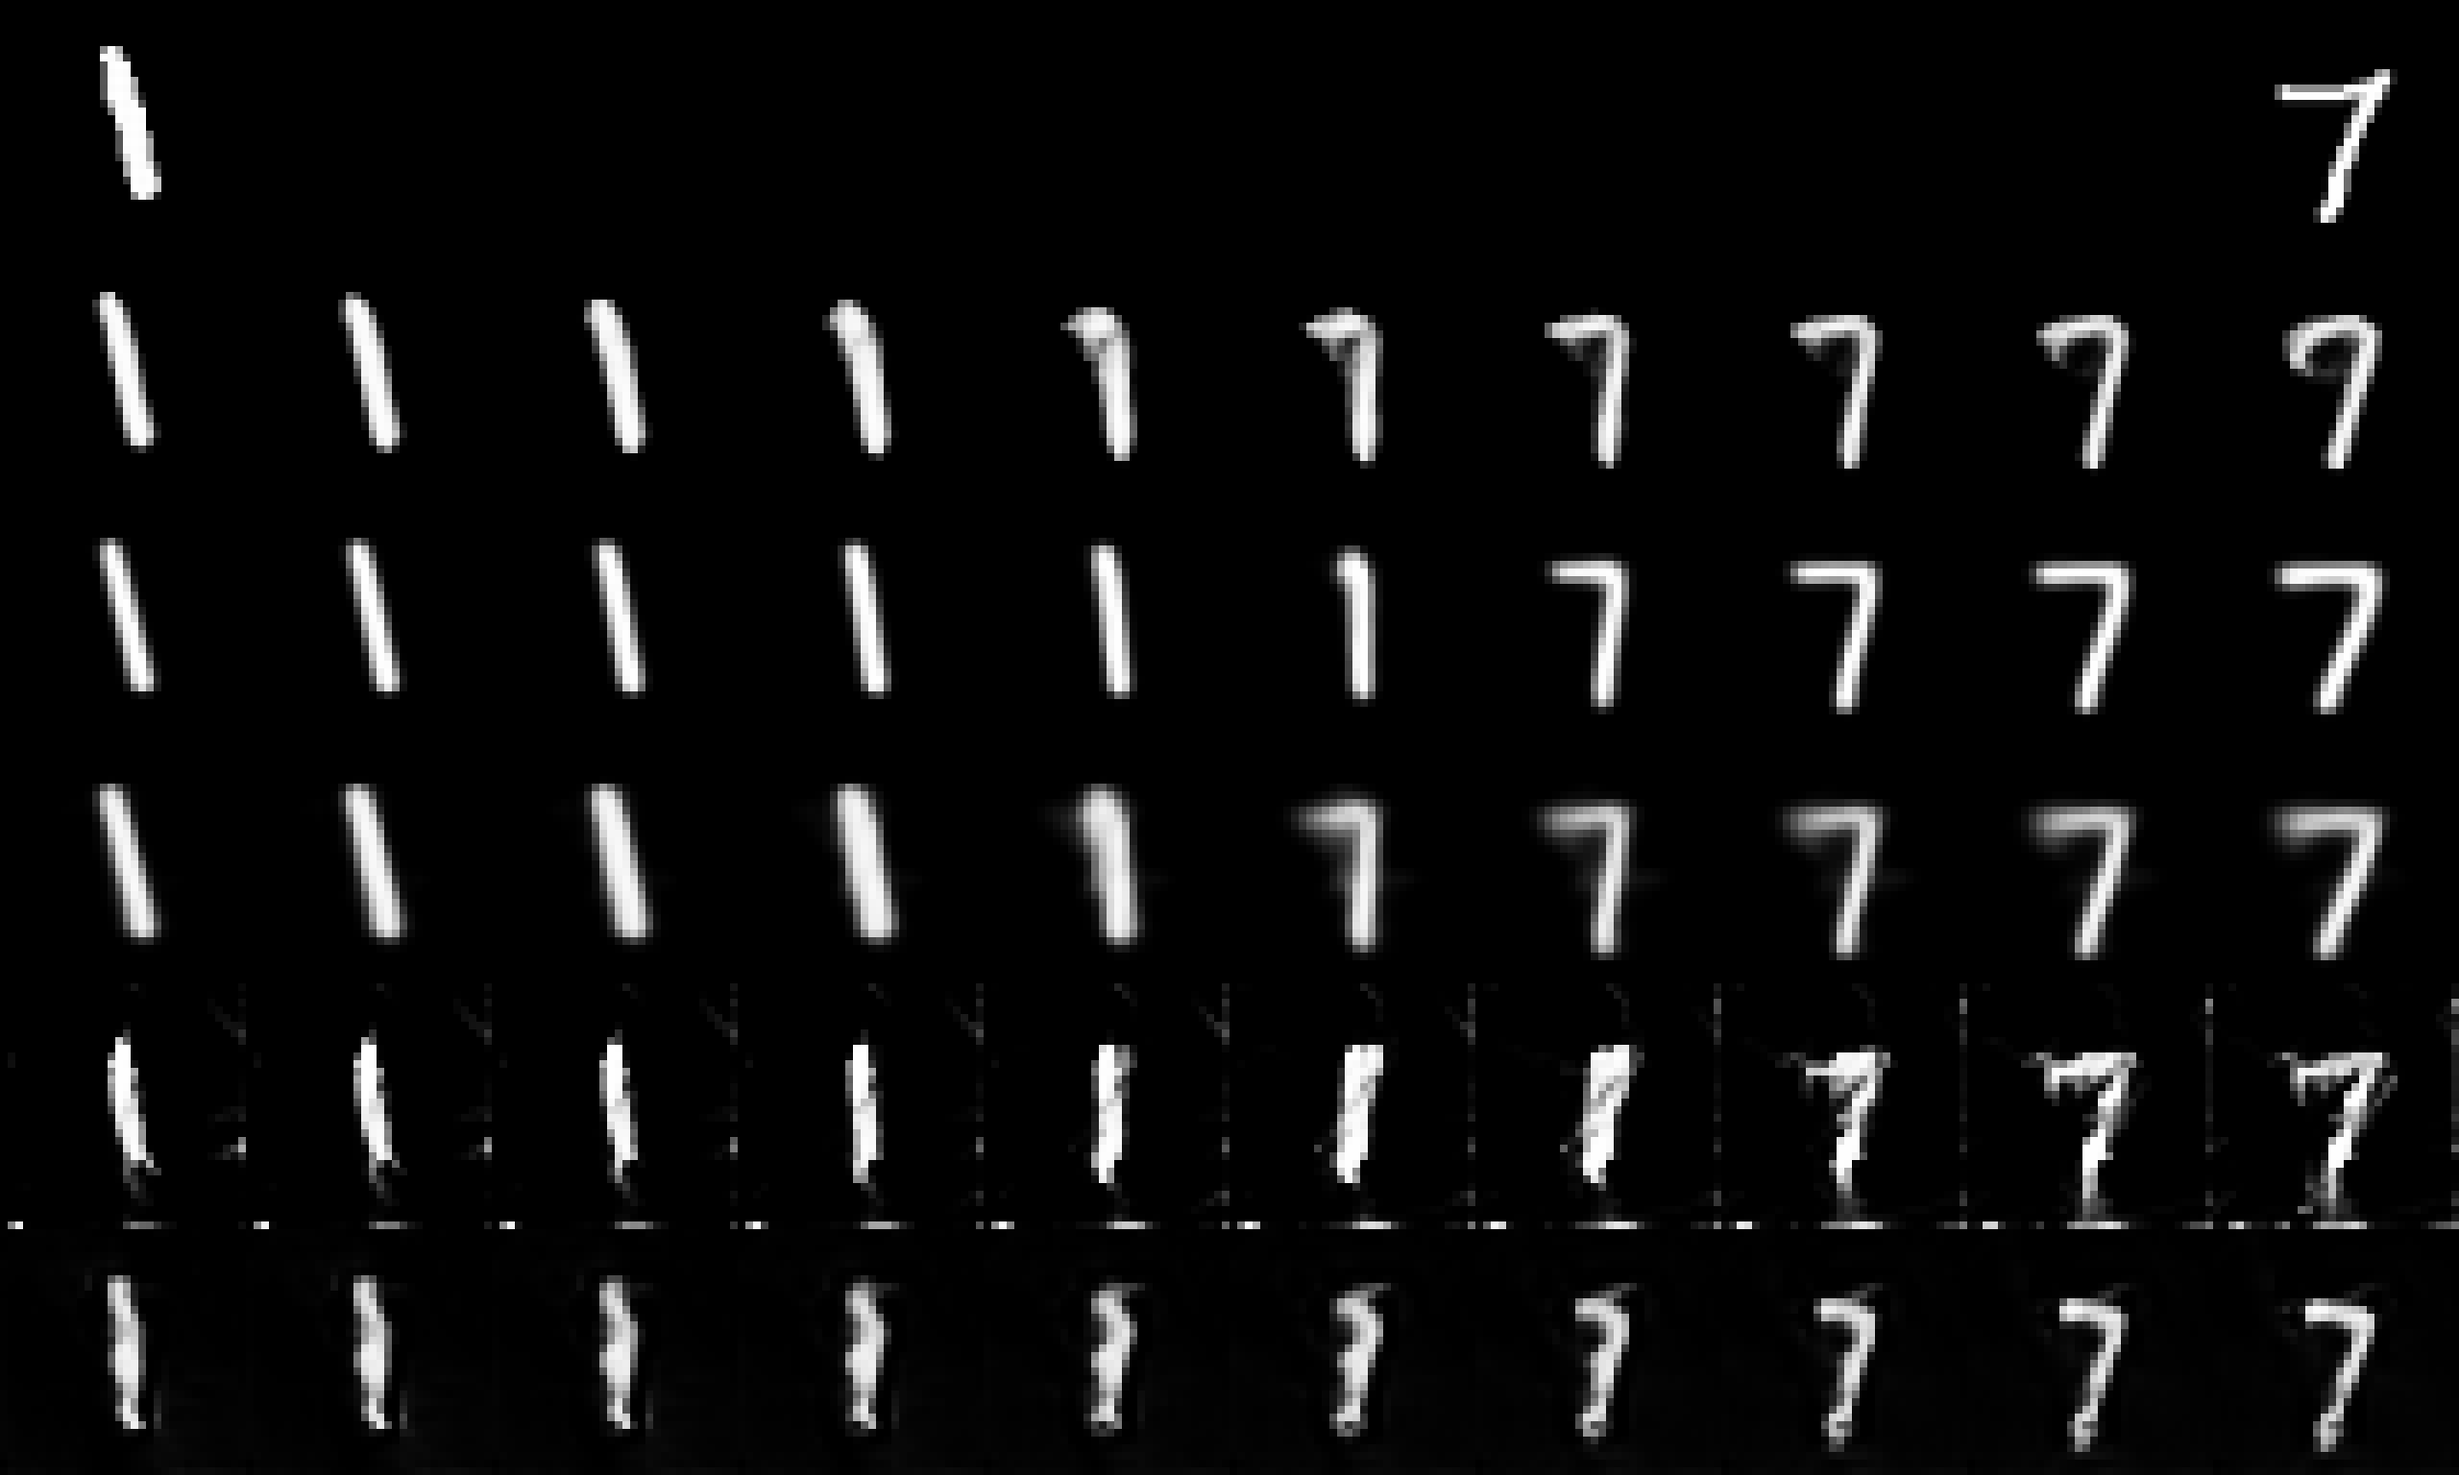
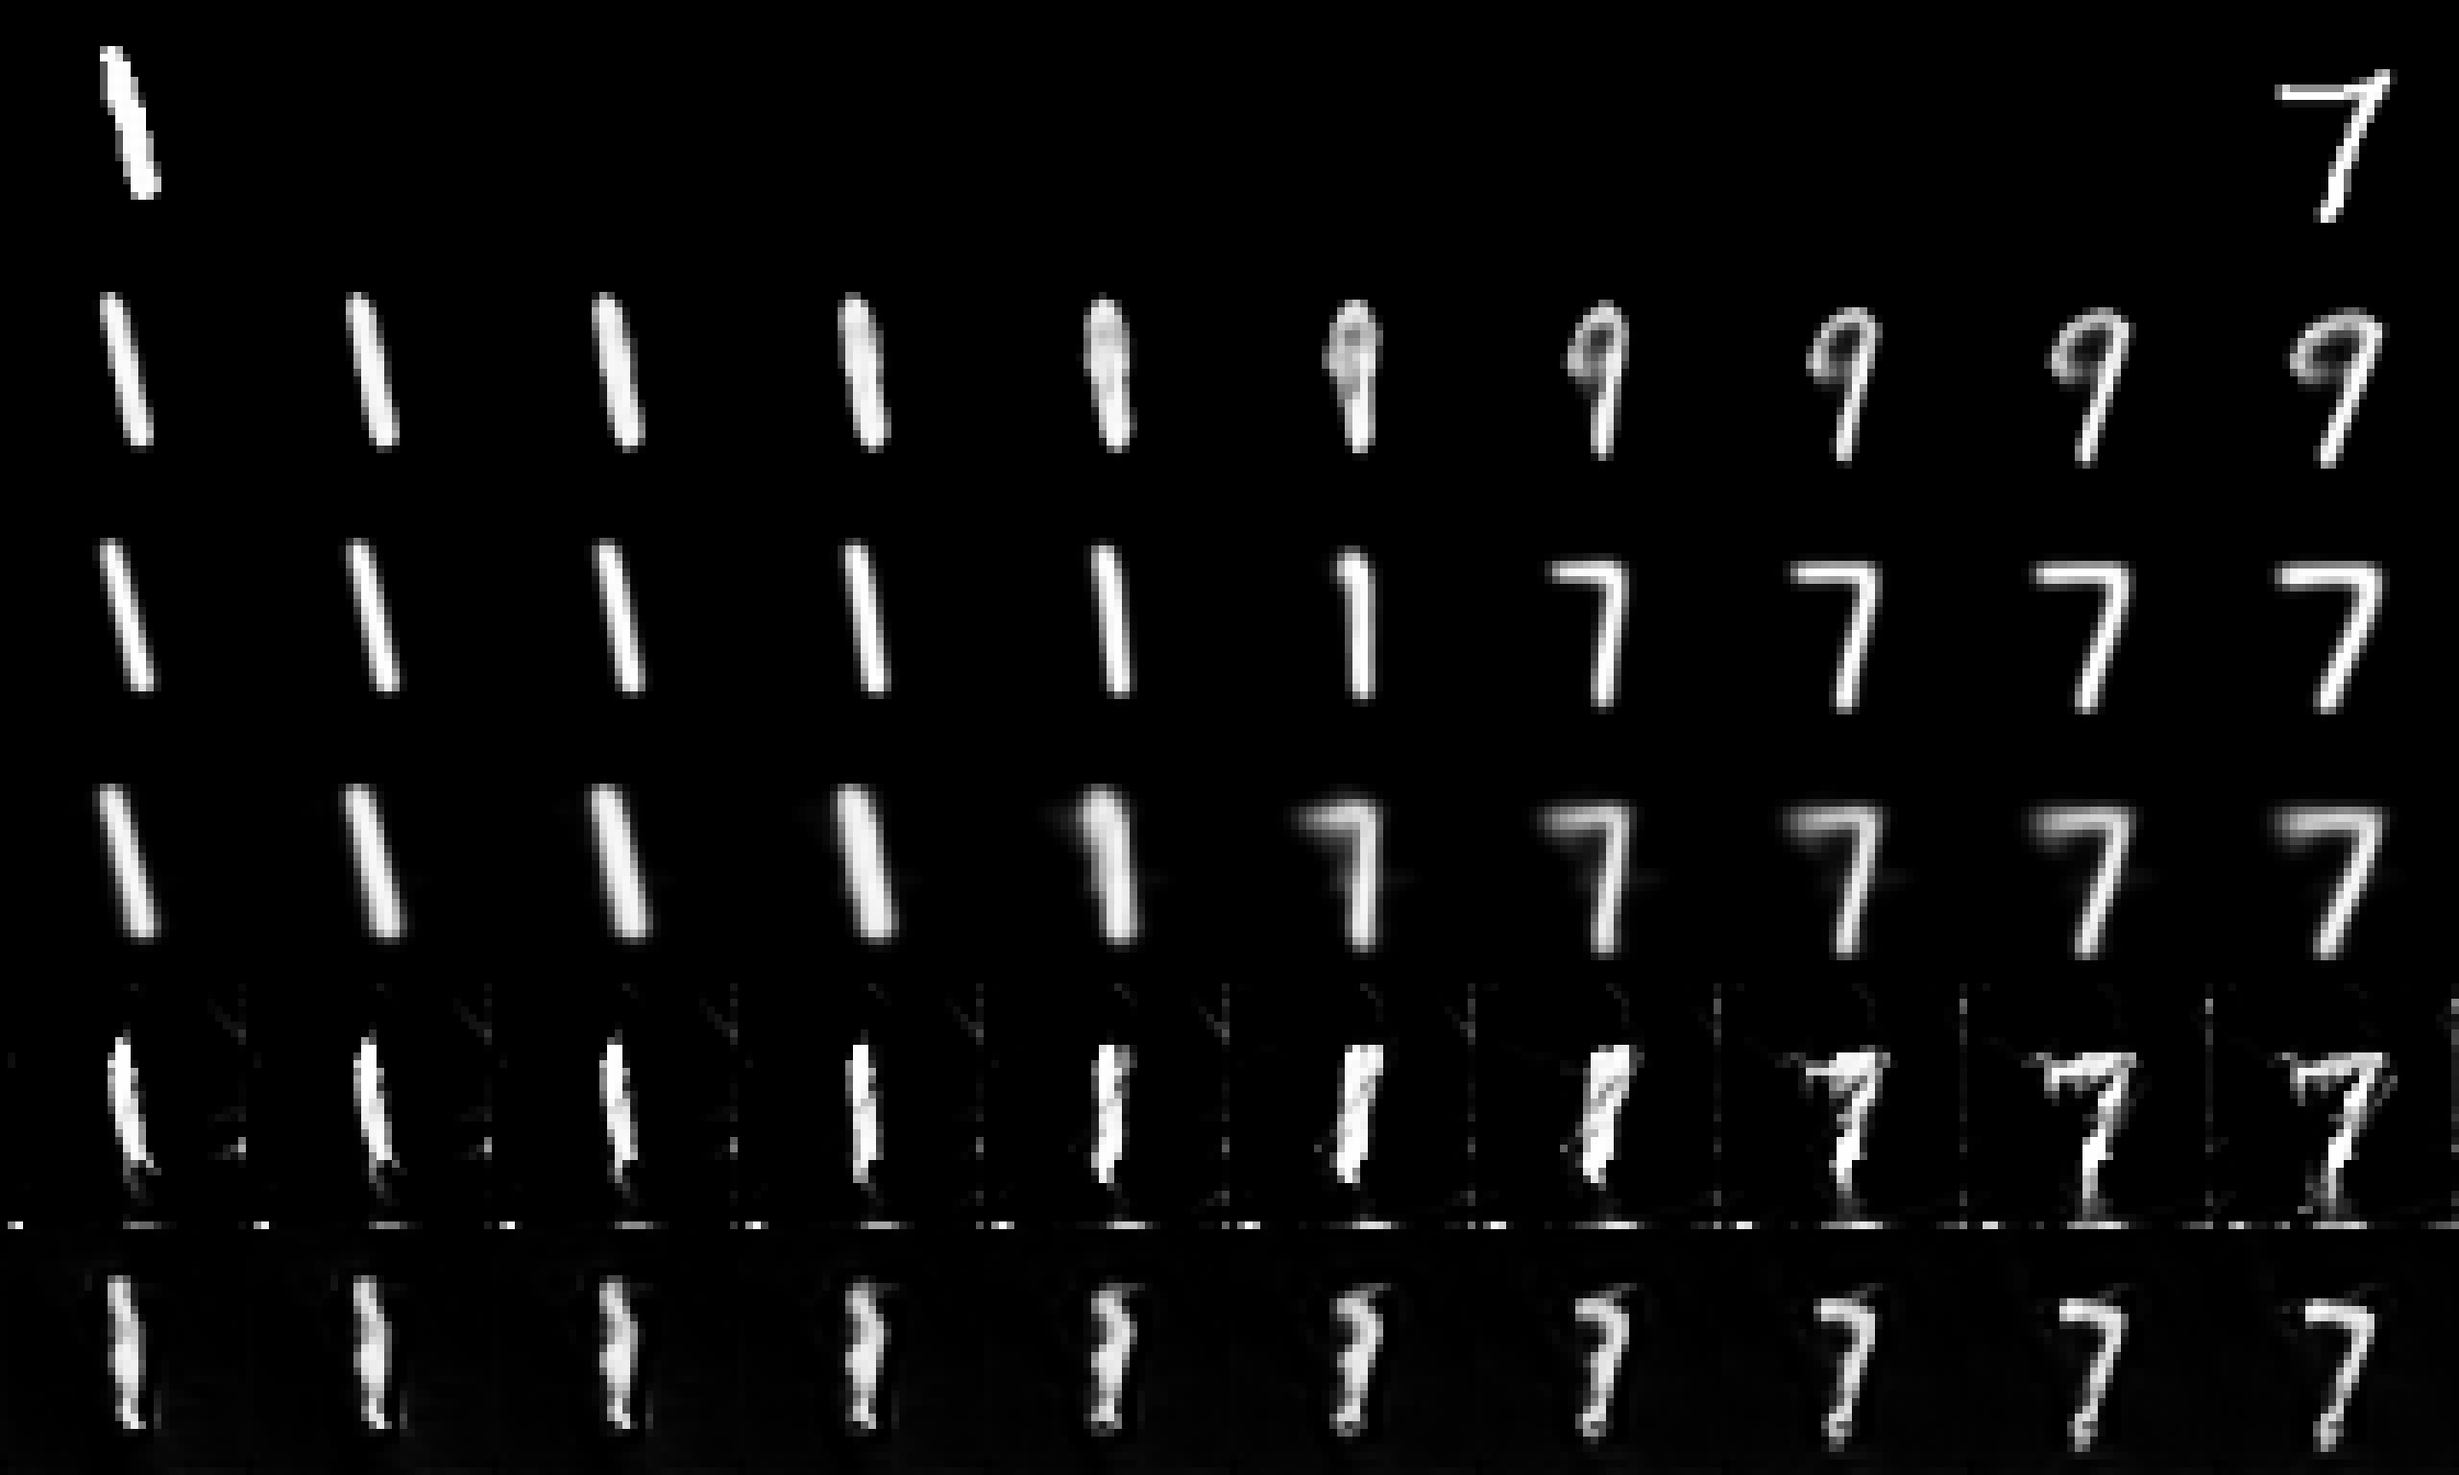
updated hparams

diff --git a/src/vae/mnist/train.py b/src/vae/mnist/train.py
@@ -442,7 +442,7 @@ print('available loss functions: {}'.format(provider.loss_functions))
 
 
 # trains l2 loss comparison
-for loss_name, lam, pretrained in [('adaptive', 0, False), ('ssim', 9, True), ('watson-fft', 1, True), ('deeploss-vgg', 9, True), ('deeploss-squeeze', 9, True),]:
+for loss_name, lam, pretrained in [('adaptive', 0, False), ('ssim', 9, True), ('watson-fft', 0, True), ('deeploss-vgg', 9, True), ('deeploss-squeeze', 9, True),]:
     print('evaluating function {} with lambda e^{}'.format(loss_name, lam))
     model = MnistVAE(latent_space=2, input_size=data_dim[1:])
     loss_fun = provider.get_loss_function(loss_name, 'LA', pretrained=pretrained, image_size=(3,32,32)) # for adaptive loss, we fake 3 channels

diff --git a/src/vae/mnist/evaluation.py b/src/vae/mnist/evaluation.py
@@ -71,7 +71,7 @@ def to_img(x):
 
 
 models =OrderedDict()
-models['Watson-fft'] = torch.load('./results/watson-fft_lam_e1/model.pckl', map_location=device)
+models['Watson-fft'] = torch.load('./results/watson-fft_lam_e0/model.pckl', map_location=device)
 models['SSIM'] = torch.load('./results/ssim_lam_e9/model.pckl', map_location=device)
 models['adaptive'] = torch.load('./results/adaptive_lam_e0/model.pckl', map_location=device)
 models['Deeploss-squeeze'] = torch.load('./results/deeploss-squeeze_lam_e9/model.pckl', map_location=device)
